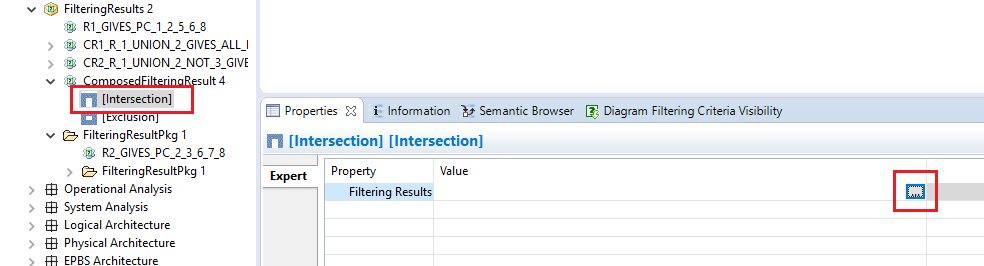
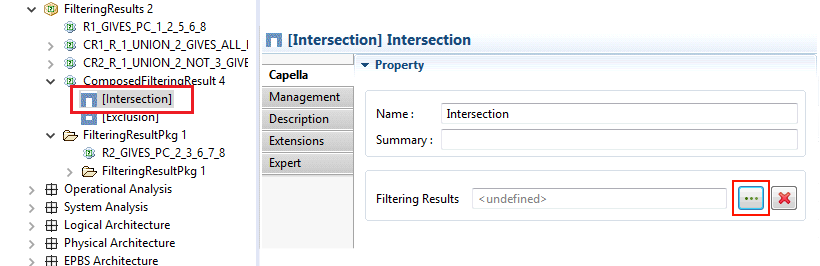
[2253] Property view for Composed Filtering Results
A notification has also been added on M2 on
FilteringResultSet.filteringResult to properly update project explorer
when feature is updated

Bug: 2253

diff --git a/plugins/org.polarsys.capella.filtering.properties/src/org/polarsys/capella/filtering/properties/sections/ComposedResultSetPropertySection.java b/plugins/org.polarsys.capella.filtering.properties/src/org/polarsys/capella/filtering/properties/sections/ComposedResultSetPropertySection.java
@@ -14,21 +14,29 @@ import java.util.ArrayList;
 import java.util.List;
 
 import org.eclipse.emf.ecore.EObject;
+import org.eclipse.emf.ecore.EStructuralFeature;
+import org.eclipse.swt.SWT;
+import org.eclipse.swt.layout.GridData;
+import org.eclipse.swt.layout.GridLayout;
 import org.eclipse.swt.widgets.Composite;
 import org.eclipse.ui.views.properties.tabbed.TabbedPropertySheetPage;
+import org.polarsys.capella.core.business.queries.IBusinessQuery;
+import org.polarsys.capella.core.business.queries.capellacore.BusinessQueriesProvider;
+import org.polarsys.capella.core.data.core.properties.sections.DefaultNamedElementSection;
+import org.polarsys.capella.core.ui.properties.controllers.AbstractMultipleSemanticFieldController;
 import org.polarsys.capella.core.ui.properties.fields.AbstractSemanticField;
+import org.polarsys.capella.core.ui.properties.fields.MultipleSemanticField;
 import org.polarsys.capella.filtering.ExclusionFilteringResultSet;
+import org.polarsys.capella.filtering.FilteringPackage;
 import org.polarsys.capella.filtering.IntersectionFilteringResultSet;
 import org.polarsys.capella.filtering.UnionFilteringResultSet;
-import org.polarsys.capella.filtering.properties.CapellaElementImplicitCriteria;
-import org.polarsys.capella.filtering.properties.fields.ReadOnlyMultipleSemanticField;
 
 /**
  * Class for Exclusion/Intersection/Unions
  */
-public class ComposedResultSetPropertySection extends CriterionSetPropertySection {
+public class ComposedResultSetPropertySection extends DefaultNamedElementSection {
 
-  private ReadOnlyMultipleSemanticField implicitCriteria;
+  MultipleSemanticField filteringResults;
   
   @Override
   public boolean select(Object toTest) {
@@ -41,10 +49,22 @@ public class ComposedResultSetPropertySection extends CriterionSetPropertySectio
   public void createControls(Composite parent, TabbedPropertySheetPage aTabbedPropertySheetPage) {
     super.createControls(parent, aTabbedPropertySheetPage);
 
-    implicitCriteria = new ReadOnlyMultipleSemanticField(getReferencesGroup(), Messages.implicitCriteriaLabel,
-        getWidgetFactory(), new CapellaElementImplicitCriteria());
-    implicitCriteria.setEnabled(false);
-    implicitCriteria.setDisplayedInWizard(isDisplayedInWizard());
+    rootParentComposite.setLayout(new GridLayout());
+    rootParentComposite.setLayoutData(new GridData(SWT.FILL, SWT.FILL, true, true));
+    
+    filteringResults = new MultipleSemanticField(getReferencesGroup(),
+        Messages.PropertySection_filteringResults, getWidgetFactory(), new AbstractMultipleSemanticFieldController() {
+          @Override
+          protected IBusinessQuery getReadOpenValuesQuery(EObject semanticElement) {
+            return BusinessQueriesProvider.getInstance().getContribution(semanticElement.eClass(), FilteringPackage.Literals.FILTERING_RESULT_SET__FILTERING_RESULTS);
+          }
+          @Override
+          public List<EObject> writeOpenValues(EObject semanticElement, EStructuralFeature semanticFeature,
+              List<EObject> values) {
+            return super.writeOpenValues(semanticElement, semanticFeature, values);
+          }
+        });
+    filteringResults.setDisplayedInWizard(isDisplayedInWizard());
   }
 
   /**
@@ -53,7 +73,7 @@ public class ComposedResultSetPropertySection extends CriterionSetPropertySectio
   @Override
   public void loadData(EObject capellaElement) {
     super.loadData(capellaElement);
-    implicitCriteria.loadData(capellaElement, null);
+    filteringResults.loadData(capellaElement, FilteringPackage.Literals.FILTERING_RESULT_SET__FILTERING_RESULTS);
   }
 
   /**
@@ -63,7 +83,7 @@ public class ComposedResultSetPropertySection extends CriterionSetPropertySectio
   public List<AbstractSemanticField> getSemanticFields() {
     List<AbstractSemanticField> fields = new ArrayList<>();
     fields.addAll(super.getSemanticFields());
-    fields.add(implicitCriteria);
+    fields.add(filteringResults);
     return fields;
   }
 }

diff --git a/plugins/org.polarsys.capella.filtering.properties/src/org/polarsys/capella/filtering/properties/FilteringResultBusinessQuery.java b/plugins/org.polarsys.capella.filtering.properties/src/org/polarsys/capella/filtering/properties/FilteringResultBusinessQuery.java
@@ -1,0 +1,89 @@
+/*******************************************************************************
+ * Copyright (c) 2019 THALES GLOBAL SERVICES.
+ * All rights reserved. This program and the accompanying materials
+ * are made available under the terms of the Eclipse Public License v1.0
+ * which accompanies this distribution, and is available at
+ * http://www.eclipse.org/legal/epl-v10.html
+ *
+ * Contributors:
+ *    Thales - initial API and implementation
+ *******************************************************************************/
+package org.polarsys.capella.filtering.properties;
+
+import java.util.ArrayList;
+import java.util.Collections;
+import java.util.HashSet;
+import java.util.LinkedList;
+import java.util.List;
+
+import org.eclipse.emf.ecore.EClass;
+import org.eclipse.emf.ecore.EObject;
+import org.eclipse.emf.ecore.EReference;
+import org.polarsys.capella.common.helpers.EObjectExt;
+import org.polarsys.capella.core.business.queries.IBusinessQuery;
+import org.polarsys.capella.core.data.capellacore.CapellaElement;
+import org.polarsys.capella.core.data.capellamodeller.SystemEngineering;
+import org.polarsys.capella.core.model.helpers.SystemEngineeringExt;
+import org.polarsys.capella.core.model.utils.ListExt;
+import org.polarsys.capella.filtering.ComposedFilteringResult;
+import org.polarsys.capella.filtering.FilteringPackage;
+import org.polarsys.capella.filtering.FilteringResultSet;
+
+public class FilteringResultBusinessQuery implements IBusinessQuery {
+
+  @Override
+  public List<EObject> getAvailableElements(EObject element) {
+    List<EObject> availableElements = new ArrayList<EObject>();
+    SystemEngineering systemEngineering = SystemEngineeringExt.getSystemEngineering((FilteringResultSet) element);
+    if (null != systemEngineering) {
+      for (EObject elt : EObjectExt.getAll(systemEngineering, FilteringPackage.Literals.ABSTRACT_FILTERING_RESULT)) {
+        availableElements.add((CapellaElement) elt);
+      }
+    }
+
+    // Remove all FilteringResults that are using the element or one of its referencing FilteringResults (recursively)
+    HashSet<EObject> toExclude = new HashSet<EObject>();
+    EObject container = element.eContainer();
+    toExclude.add(container);
+
+    LinkedList<EObject> toVisit = new LinkedList<EObject>();
+    HashSet<EObject> visited = new HashSet<EObject>();
+    toVisit.add(container);
+    while (!toVisit.isEmpty()) {
+      EObject current = toVisit.removeFirst();
+      if (current instanceof ComposedFilteringResult) {
+        List<FilteringResultSet> referencings = EObjectExt.getReferencers(current,
+            FilteringPackage.Literals.FILTERING_RESULT_SET__FILTERING_RESULTS);
+        for (EObject ref : referencings) {
+          EObject refContainer = ref.eContainer();
+          toExclude.add(refContainer);
+          if (!visited.contains(refContainer)) {
+            toVisit.add(refContainer);
+          }
+        }
+      }
+    }
+
+    availableElements.removeAll(toExclude);
+    return availableElements;
+  }
+
+  @Override
+  public List<EObject> getCurrentElements(EObject element, boolean onlyGenerated) {
+    if (element instanceof FilteringResultSet) {
+      return Collections.unmodifiableList(((FilteringResultSet) element).getFilteringResults());
+    }
+    return Collections.emptyList();
+  }
+
+  @Override
+  public EClass getEClass() {
+    return FilteringPackage.Literals.FILTERING_RESULT_SET;
+  }
+
+  @Override
+  public List<EReference> getEStructuralFeatures() {
+    return Collections.singletonList(FilteringPackage.Literals.FILTERING_RESULT_SET__FILTERING_RESULTS);
+  }
+
+}

diff --git a/plugins/org.polarsys.capella.filtering.properties/src/org/polarsys/capella/filtering/properties/sections/Messages.java b/plugins/org.polarsys.capella.filtering.properties/src/org/polarsys/capella/filtering/properties/sections/Messages.java
@@ -1,5 +1,5 @@
 /*******************************************************************************
- * Copyright (c) 2018 THALES GLOBAL SERVICES.
+ * Copyright (c) 2018, 2019 THALES GLOBAL SERVICES.
  * All rights reserved. This program and the accompanying materials
  * are made available under the terms of the Eclipse Public License v1.0
  * which accompanies this distribution, and is available at
@@ -10,9 +10,18 @@
  *******************************************************************************/
 package org.polarsys.capella.filtering.properties.sections;
 
-interface Messages {
+import org.eclipse.osgi.util.NLS;
 
-  public static String filteringLabel = "Filtering Criteria";
-  public static String implicitCriteriaLabel = "Implicit Criteria";
+public class Messages extends NLS {
+  private static final String BUNDLE_NAME = "org.polarsys.capella.filtering.properties.sections.messages"; //$NON-NLS-1$
+  public static String PropertySection_filteringLabel;
+  public static String PropertySection_filteringResults;
+  public static String PropertySection_implicitCriteriaLabel;
+  static {
+    // initialize resource bundle
+    NLS.initializeMessages(BUNDLE_NAME, Messages.class);
+  }
 
+  private Messages() {
+  }
 }

diff --git a/plugins/org.polarsys.capella.filtering.tools/src/org/polarsys/capella/filtering/tools/preferences/Messages.java b/plugins/org.polarsys.capella.filtering.tools/src/org/polarsys/capella/filtering/tools/preferences/Messages.java
@@ -1,5 +1,5 @@
 /*******************************************************************************
- * Copyright (c) 2018 THALES GLOBAL SERVICES.
+ * Copyright (c) 2018, 2019 THALES GLOBAL SERVICES.
  * All rights reserved. This program and the accompanying materials
  * are made available under the terms of the Eclipse Public License v1.0
  * which accompanies this distribution, and is available at
@@ -10,12 +10,17 @@
  *******************************************************************************/
 package org.polarsys.capella.filtering.tools.preferences;
 
-/**
- * 
- *
- */
-interface Messages {
-  String FILTERING_PREFERENCES_PAGE_3 = "Application project has a different ID (for libraries)";
-  String FILTERING_PREFERENCES_PAGE_4 = "Filtering Preferences";
+import org.eclipse.osgi.util.NLS;
 
+public class Messages extends NLS {
+  private static final String BUNDLE_NAME = "org.polarsys.capella.filtering.tools.preferences.messages"; //$NON-NLS-1$
+  public static String FilteringPreferencesPage_Description;
+  public static String FilteringPreferencesPage_DifferentId;
+  static {
+    // initialize resource bundle
+    NLS.initializeMessages(BUNDLE_NAME, Messages.class);
+  }
+
+  private Messages() {
+  }
 }

diff --git a/plugins/org.polarsys.capella.filtering.tools/src/org/polarsys/capella/filtering/tools/preferences/FilteringPreferencesPage.java b/plugins/org.polarsys.capella.filtering.tools/src/org/polarsys/capella/filtering/tools/preferences/FilteringPreferencesPage.java
@@ -14,7 +14,6 @@ import org.eclipse.jface.preference.BooleanFieldEditor;
 import org.eclipse.jface.preference.FieldEditorPreferencePage;
 import org.eclipse.ui.IWorkbench;
 import org.eclipse.ui.IWorkbenchPreferencePage;
-import org.polarsys.capella.common.ui.toolkit.fields.SpacerFieldEditor;
 import org.polarsys.capella.filtering.tools.FilteringToolsPlugin;
 
 /**
@@ -42,14 +41,14 @@ public class FilteringPreferencesPage extends FieldEditorPreferencePage implemen
 
   @Override
   public void createFieldEditors() {
-    addField(new BooleanFieldEditor(APPLICATION_PROJECT_WITH_DIFFERENT_ID, Messages.FILTERING_PREFERENCES_PAGE_3,
+    addField(new BooleanFieldEditor(APPLICATION_PROJECT_WITH_DIFFERENT_ID, Messages.FilteringPreferencesPage_DifferentId,
         getFieldEditorParent()));
   }
 
   @Override
   public void init(IWorkbench workbench) {
     setPreferenceStore(FilteringToolsPlugin.getDefault().getPreferenceStore());
-    setDescription(Messages.FILTERING_PREFERENCES_PAGE_4);
+    setDescription(Messages.FilteringPreferencesPage_Description);
   }
 
 }

diff --git a/plugins/org.polarsys.capella.filtering.properties/src/org/polarsys/capella/filtering/properties/sections/CapellaFilteringPropertySection.java b/plugins/org.polarsys.capella.filtering.properties/src/org/polarsys/capella/filtering/properties/sections/CapellaFilteringPropertySection.java
@@ -74,11 +74,11 @@ public class CapellaFilteringPropertySection extends AbstractSection implements 
     rootParentComposite.setLayout(new GridLayout());
     rootParentComposite.setLayoutData(new GridData(SWT.FILL, SWT.FILL, true, true));
 
-    criteria = new IndirectCapellaElementCriteriaMultipleSemanticField(getReferencesGroup(), Messages.filteringLabel,
+    criteria = new IndirectCapellaElementCriteriaMultipleSemanticField(getReferencesGroup(), Messages.PropertySection_filteringLabel,
         getWidgetFactory(), new CapellaElementCriteria());
     criteria.setDisplayedInWizard(isDisplayedInWizard());
 
-    implicitCriteria = new ReadOnlyMultipleSemanticField(getReferencesGroup(), Messages.implicitCriteriaLabel,
+    implicitCriteria = new ReadOnlyMultipleSemanticField(getReferencesGroup(), Messages.PropertySection_implicitCriteriaLabel,
         getWidgetFactory(), new CapellaElementImplicitCriteria());
     implicitCriteria.setEnabled(false);
     implicitCriteria.setDisplayedInWizard(isDisplayedInWizard());

diff --git a/plugins/org.polarsys.capella.filtering.model.edit/src/org/polarsys/capella/filtering/provider/FilteringResultSetItemProvider.java b/plugins/org.polarsys.capella.filtering.model.edit/src/org/polarsys/capella/filtering/provider/FilteringResultSetItemProvider.java
@@ -19,6 +19,7 @@ import org.eclipse.emf.edit.provider.IItemPropertySource;
 import org.eclipse.emf.edit.provider.IStructuredItemContentProvider;
 import org.eclipse.emf.edit.provider.ITreeItemContentProvider;
 
+import org.eclipse.emf.edit.provider.ViewerNotification;
 import org.polarsys.capella.core.data.capellacore.provider.NamedElementItemProvider;
 import org.polarsys.capella.filtering.FilteringFactory;
 import org.polarsys.capella.filtering.FilteringPackage;
@@ -156,6 +157,12 @@ public class FilteringResultSetItemProvider extends NamedElementItemProvider imp
 	@Override
 	public void notifyChanged(Notification notification) {
 		updateChildren(notification);
+
+		switch (notification.getFeatureID(FilteringResultSet.class)) {
+		case FilteringPackage.FILTERING_RESULT_SET__FILTERING_RESULTS:
+			fireNotifyChanged(new ViewerNotification(notification, notification.getNotifier(), true, false));
+			return;
+		}
 		super.notifyChanged(notification);
 	}
 

diff --git a/plugins/org.polarsys.capella.filtering.properties/src/org/polarsys/capella/filtering/properties/IntersectionFilteringResultBusinessQuery.java b/plugins/org.polarsys.capella.filtering.properties/src/org/polarsys/capella/filtering/properties/IntersectionFilteringResultBusinessQuery.java
@@ -1,0 +1,23 @@
+/*******************************************************************************
+ * Copyright (c) 2019 THALES GLOBAL SERVICES.
+ * All rights reserved. This program and the accompanying materials
+ * are made available under the terms of the Eclipse Public License v1.0
+ * which accompanies this distribution, and is available at
+ * http://www.eclipse.org/legal/epl-v10.html
+ *
+ * Contributors:
+ *    Thales - initial API and implementation
+ *******************************************************************************/
+package org.polarsys.capella.filtering.properties;
+
+import org.eclipse.emf.ecore.EClass;
+import org.polarsys.capella.filtering.FilteringPackage;
+
+public class IntersectionFilteringResultBusinessQuery extends FilteringResultBusinessQuery {
+
+  @Override
+  public EClass getEClass() {
+    return FilteringPackage.Literals.INTERSECTION_FILTERING_RESULT_SET;
+  }
+
+}

diff --git a/plugins/org.polarsys.capella.filtering.properties/src/org/polarsys/capella/filtering/properties/ExclusionFilteringResultBusinessQuery.java b/plugins/org.polarsys.capella.filtering.properties/src/org/polarsys/capella/filtering/properties/ExclusionFilteringResultBusinessQuery.java
@@ -1,0 +1,23 @@
+/*******************************************************************************
+ * Copyright (c) 2019 THALES GLOBAL SERVICES.
+ * All rights reserved. This program and the accompanying materials
+ * are made available under the terms of the Eclipse Public License v1.0
+ * which accompanies this distribution, and is available at
+ * http://www.eclipse.org/legal/epl-v10.html
+ *
+ * Contributors:
+ *    Thales - initial API and implementation
+ *******************************************************************************/
+package org.polarsys.capella.filtering.properties;
+
+import org.eclipse.emf.ecore.EClass;
+import org.polarsys.capella.filtering.FilteringPackage;
+
+public class ExclusionFilteringResultBusinessQuery extends FilteringResultBusinessQuery {
+
+  @Override
+  public EClass getEClass() {
+    return FilteringPackage.Literals.EXCLUSION_FILTERING_RESULT_SET;
+  }
+
+}

diff --git a/plugins/org.polarsys.capella.filtering.properties/src/org/polarsys/capella/filtering/properties/UnionFilteringResultBusinessQuery.java b/plugins/org.polarsys.capella.filtering.properties/src/org/polarsys/capella/filtering/properties/UnionFilteringResultBusinessQuery.java
@@ -1,0 +1,23 @@
+/*******************************************************************************
+ * Copyright (c) 2019 THALES GLOBAL SERVICES.
+ * All rights reserved. This program and the accompanying materials
+ * are made available under the terms of the Eclipse Public License v1.0
+ * which accompanies this distribution, and is available at
+ * http://www.eclipse.org/legal/epl-v10.html
+ *
+ * Contributors:
+ *    Thales - initial API and implementation
+ *******************************************************************************/
+package org.polarsys.capella.filtering.properties;
+
+import org.eclipse.emf.ecore.EClass;
+import org.polarsys.capella.filtering.FilteringPackage;
+
+public class UnionFilteringResultBusinessQuery extends FilteringResultBusinessQuery {
+
+  @Override
+  public EClass getEClass() {
+    return FilteringPackage.Literals.UNION_FILTERING_RESULT_SET;
+  }
+
+}

diff --git a/plugins/org.polarsys.capella.filtering.properties/src/org/polarsys/capella/filtering/properties/sections/CriterionSetPropertySection.java b/plugins/org.polarsys.capella.filtering.properties/src/org/polarsys/capella/filtering/properties/sections/CriterionSetPropertySection.java
@@ -52,7 +52,7 @@ public class CriterionSetPropertySection extends DefaultNamedElementSection {
 
     rootParentComposite.setLayout(new GridLayout());
     rootParentComposite.setLayoutData(new GridData(SWT.FILL, SWT.FILL, true, true));
-    criteria = new CriteriaMultipleSemanticField(getReferencesGroup(), Messages.filteringLabel, getWidgetFactory(),
+    criteria = new CriteriaMultipleSemanticField(getReferencesGroup(), Messages.PropertySection_filteringLabel, getWidgetFactory(),
         new CriterionSetFilteringCriteriaController());
     criteria.setDisplayedInWizard(isDisplayedInWizard());
   }
